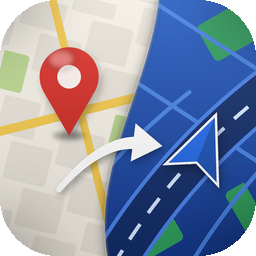
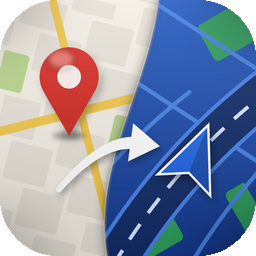
Move the chevron down-left and set the real bundle ID prefix
The navigation arrow sits lower and further left so the chevron and the
divider curve stop echoing each other. Bundle IDs now use com.desatt.

Claude-Session: https://claude.ai/code/session_01WPym94FLSeSwsxcNq83R7E

diff --git a/docs/design/build-icon.py b/docs/design/build-icon.py
@@ -49,9 +49,9 @@ WHITE = (255, 255, 255)
 DIV_TOP, DIV_C1, DIV_C2, DIV_BOTTOM = (0.62, 0.0), (0.58, 0.35), (0.36, 0.65), (0.42, 1.0)
 
 PIN_CENTER, PIN_RADIUS = (0.27, 0.30), 0.115          # head centre, head radius
-ARROW_P0, ARROW_C, ARROW_P1 = (0.23, 0.74), (0.40, 0.54), (0.55, 0.56)   # quadratic Bezier
+ARROW_P0, ARROW_C, ARROW_P1 = (0.23, 0.74), (0.40, 0.54), (0.54, 0.56)   # quadratic Bezier
 ARROW_WIDTH = 0.05
-CHEV_CENTER, CHEV_SIZE, CHEV_ANGLE = (0.79, 0.58), 0.13, 22              # degrees
+CHEV_CENTER, CHEV_SIZE, CHEV_ANGLE = (0.76, 0.62), 0.13, 22              # degrees
 
 # ---------------------------------------------------------------- helpers
 def P(x, y): return (x * S, y * S)
